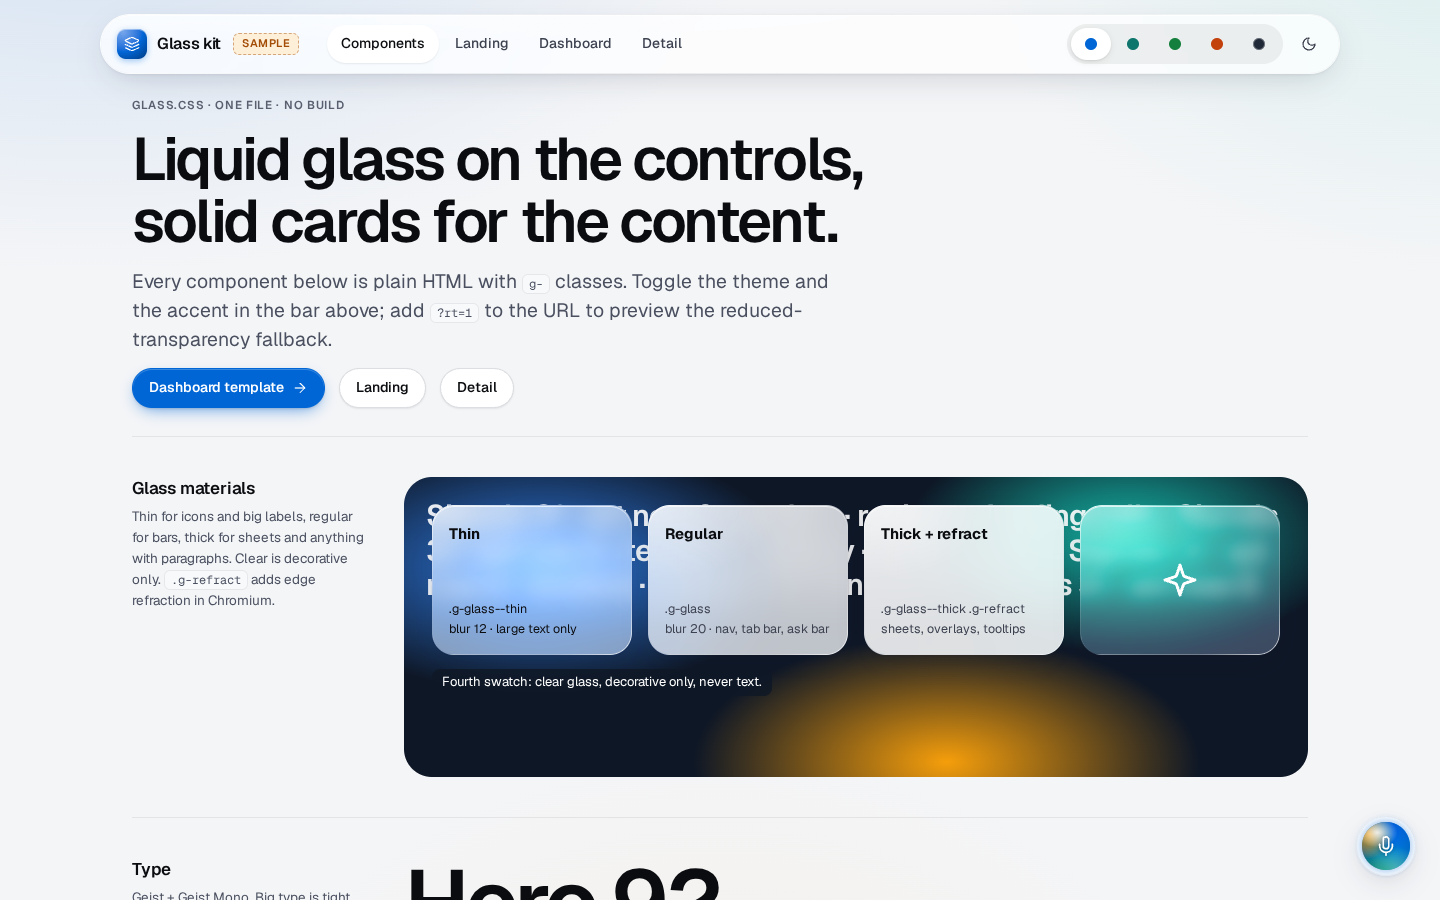
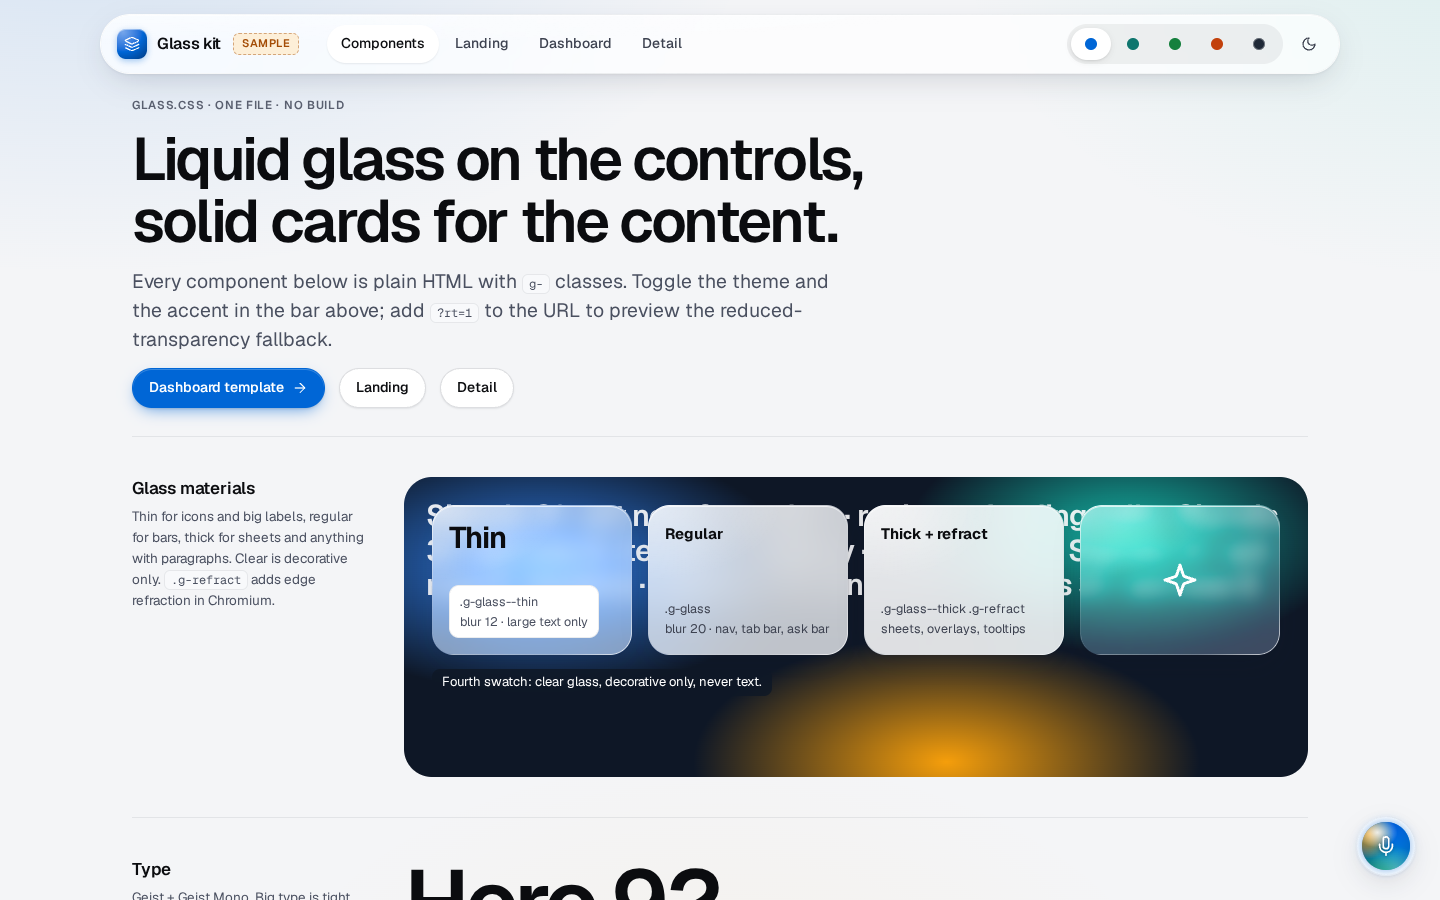
Fix six verified defects: accent contrast, orb timers, tooltip over bars, dialog shots, thin-glass caption
- glass.css: light-theme green and orange accent text tones darkened (#14753A, #B03A0B) so .g-chip--accent
  clears AA on its tint (was 4.33 and 4.42); fills and dark theme unchanged.
- tools/contrast_check.py: --accents all|list runs every page under each advertised ?accent= value
  (blue, teal, green, orange, graphite). README coverage note updated; all templates x desktop/--phone x
  every accent x light/dark exit 0.
- glass.js demoPilot: state timers are tracked and cleared on close (and on reopen), so a closed panel no
  longer leaves the orb in thinking/speaking.
- templates/dashboard.html: the week tooltip moves to the empty corner of the header row, clear of the
  bars of weeks 38 to 42 (checked by bounding boxes at 1440 down to 900; hidden at 390 as before).
- tools/shoot_templates.py: --animations auto|allow|disabled; auto uses "allow" when --click opens a
  dialog, because "disabled" never returns with a dialog open under software GL. Documented in the
  docstring and README.
- templates/gallery.html: the thin-glass swatch carries a 30px label and its small caption moves onto a
  solid surface, matching the kit's own "large text only on thin glass" rule.
- docs/shots: dashboard, dashboard_pilot and gallery screenshots regenerated to match.

Changed region(s): [[0.3125, 0.6222, 0.4375, 0.7156], [0.3125, 0.56, 0.3438, 0.6222]]

diff --git a/templates/dashboard.html b/templates/dashboard.html
@@ -15,7 +15,10 @@
   .stage-top { display: flex; justify-content: space-between; align-items: flex-start; gap: 12px; }
   .stage .g-chart { margin-top: auto; }
   .stage { min-height: 392px; }
-  .tip { position: absolute; right: 8%; top: 0; z-index: 3; }
+  /* The tooltip lives in the empty corner of the header row (right of the KPI, under the legend), not over the plot:
+     the bars of weeks 38 to 42 reach the top of the plot, so anything floating inside it hides data. */
+  .stage-top { position: relative; }
+  .tip { position: absolute; right: 0; bottom: 0; z-index: 3; }
   .tip b { font-size: 15px; letter-spacing: -0.02em; }
   @media (max-width: 860px) { .head { flex-direction: column; align-items: flex-start; } }
   @media (max-width: 640px) { .stage { min-height: 0; } .stage-in { padding: 18px 16px 16px; } .tip { display: none; } }
@@ -70,12 +73,12 @@
               <div class="g-legend g-hide-phone" style="padding-top:6px">
                 <span style="--_c: var(--g-chart-1)">Act now</span><span style="--_c: color-mix(in oklab, var(--g-chart-5) 55%, transparent)">All signals</span>
               </div>
+              <div class="g-float g-glass--thick tip g-refract" role="note">
+                <div class="g-eyebrow" style="color:var(--g-glass-text-2)">Week 42</div>
+                <div><b class="g-num">31</b> <span class="g-small" style="color:var(--g-glass-text-2)">signals</span> · <b class="g-num g-accent-text">6</b> <span class="g-small" style="color:var(--g-glass-text-2)">act now</span></div>
+              </div>
             </div>
             <div class="g-chart" style="--odd:hidden">
-<div class="g-float g-glass--thick tip g-refract" role="note">
-            <div class="g-eyebrow" style="color:var(--g-glass-text-2)">Week 42</div>
-            <div><b class="g-num">31</b> <span class="g-small" style="color:var(--g-glass-text-2)">signals</span> · <b class="g-num g-accent-text">6</b> <span class="g-small" style="color:var(--g-glass-text-2)">act now</span></div>
-          </div>
 <svg viewBox="0 0 640 330" role="img" aria-label="Weekly signals, weeks 31 to 42: total rising from 14 to 31, act-now from 2 to 6"><g class="grid"><line x1="8" x2="632" y1="326.0" y2="326.0"/><line x1="8" x2="632" y1="230.2" y2="230.2"/><line x1="8" x2="632" y1="134.5" y2="134.5"/><line x1="8" x2="632" y1="38.7" y2="38.7"/></g><g><rect class="muted" x="19.4" y="191.9" width="29.1" height="134.1" rx="7"/><rect class="s1 bar lo" x="19.4" y="306.8" width="29.1" height="19.2" rx="7"/><rect class="muted" x="71.4" y="153.6" width="29.1" height="172.4" rx="7"/><rect class="s1 bar lo" x="71.4" y="297.3" width="29.1" height="28.7" rx="7"/><rect class="muted" x="123.4" y="172.8" width="29.1" height="153.2" rx="7"/><rect class="s1 bar lo" x="123.4" y="306.8" width="29.1" height="19.2" rx="7"/><rect class="muted" x="175.4" y="124.9" width="29.1" height="201.1" rx="7"/><rect class="s1 bar lo" x="175.4" y="287.7" width="29.1" height="38.3" rx="7"/><rect class="muted" x="227.4" y="144.1" width="29.1" height="181.9" rx="7"/><rect class="s1 bar lo" x="227.4" y="297.3" width="29.1" height="28.7" rx="7"/><rect class="muted" x="279.4" y="96.2" width="29.1" height="229.8" rx="7"/><rect class="s1 bar lo" x="279.4" y="287.7" width="29.1" height="38.3" rx="7"/><rect class="muted" x="331.4" y="115.3" width="29.1" height="210.7" rx="7"/><rect class="s1 bar lo" x="331.4" y="297.3" width="29.1" height="28.7" rx="7"/><rect class="muted" x="383.4" y="67.5" width="29.1" height="258.5" rx="7"/><rect class="s1 bar lo" x="383.4" y="278.1" width="29.1" height="47.9" rx="7"/><rect class="muted" x="435.4" y="86.6" width="29.1" height="239.4" rx="7"/><rect class="s1 bar lo" x="435.4" y="287.7" width="29.1" height="38.3" rx="7"/><rect class="muted" x="487.4" y="48.3" width="29.1" height="277.7" rx="7"/><rect class="s1 bar lo" x="487.4" y="278.1" width="29.1" height="47.9" rx="7"/><rect class="muted" x="539.4" y="77.0" width="29.1" height="249.0" rx="7"/><rect class="s1 bar lo" x="539.4" y="287.7" width="29.1" height="38.3" rx="7"/><rect class="muted hi" x="591.4" y="29.2" width="29.1" height="296.8" rx="7"/><rect class="s1 bar hi" x="591.4" y="268.5" width="29.1" height="57.5" rx="7"/></g></svg><div class="g-chart__x" aria-hidden="true"><span>W31</span><span>W32</span><span>W33</span><span>W34</span><span>W35</span><span>W36</span><span>W37</span><span>W38</span><span>W39</span><span>W40</span><span>W41</span><span>W42</span></div></div>
           </div>
           </article>

diff --git a/templates/gallery.html b/templates/gallery.html
@@ -21,6 +21,9 @@
   .swatches { display: grid; grid-template-columns: repeat(4, minmax(0, 1fr)); gap: 16px; position: relative; }
   .swatch { border-radius: 22px; padding: 16px; min-height: 150px; display: flex; flex-direction: column; justify-content: space-between; gap: 8px; }
   .swatch b { font-size: 15px; } .swatch small { font-size: 12.5px; color: var(--g-glass-text-2); }
+  /* thin glass carries large text only (>= 24px): a big label, with the small caption on a solid surface instead of on the glass */
+  .swatch--thin b { font-size: 30px; line-height: 1.05; letter-spacing: -0.03em; font-weight: 650; }
+  .swatch--thin small { align-self: flex-start; padding: 6px 10px; border-radius: 10px; background: var(--g-surface); color: var(--g-base-text-2); border: 1px solid var(--g-line); }
   .phone { position: relative; width: 300px; height: 300px; border-radius: 36px; overflow: hidden; border: 1px solid var(--g-line); background: var(--g-bg); padding: 16px; }
   .phone .g-tabbar { position: absolute; display: flex; left: 10px; right: 76px; bottom: 12px; height: 58px; }
   .phone .g-orb-btn { position: absolute; right: 12px; bottom: 12px; --pilot-size: 58px; }
@@ -65,7 +68,7 @@
     <div class="backdrop">
       <div class="lines" aria-hidden="true">Signals 31 · act now 6 · tenders · registry · funding calls · Signals 31 · act now 6 · tenders · registry · funding calls · Signals 31 · act now 6 · tenders · registry · funding calls · Signals 31 · act now 6</div>
       <div class="swatches">
-        <div class="swatch g-glass g-glass--thin"><b>Thin</b><small>.g-glass--thin<br>blur 12 · large text only</small></div>
+        <div class="swatch swatch--thin g-glass g-glass--thin"><b>Thin</b><small>.g-glass--thin<br>blur 12 · large text only</small></div>
         <div class="swatch g-glass"><b>Regular</b><small>.g-glass<br>blur 20 · nav, tab bar, ask bar</small></div>
         <div class="swatch g-glass g-glass--thick g-refract"><b>Thick + refract</b><small>.g-glass--thick .g-refract<br>sheets, overlays, tooltips</small></div>
         <div class="swatch g-glass g-glass--clear" role="img" aria-label="Clear glass: decorative only, no text" style="align-items:center; justify-content:center"><svg class="g-i" style="width:40px;height:40px;color:#fff"><use href="../icons.svg#sparkles"/></svg></div>

diff --git a/glass.js b/glass.js
@@ -84,8 +84,9 @@
   /* demo-only state machine so galleries show every orb state without a microphone */
   function demoPilot(orb, panel) {
     if (!orb) return;
-    var raf = 0, t0 = 0;
+    var raf = 0, t0 = 0, timers = [];
     var status = panel && panel.querySelector("[data-pilot-status]");
+    function clearTimers() { timers.forEach(clearTimeout); timers = []; }   /* a closed panel must not keep advancing the orb */
     function state(s) {
       orb.setAttribute("data-state", s);
       if (panel) panel.setAttribute("data-state", s);
@@ -94,12 +95,13 @@
     function wobble(ts) { if (!t0) t0 = ts; var k = (ts - t0) / 1000; setPilotLevel(0.35 + 0.3 * Math.sin(k * 7) * Math.sin(k * 2.3) + 0.2 * Math.random()); raf = requestAnimationFrame(wobble); }
     orb.addEventListener("click", function () {
       var open = panel && !panel.hidden;
-      if (open) { panel.hidden = true; cancelAnimationFrame(raf); setPilotLevel(0); state("idle"); return; }
+      clearTimers(); cancelAnimationFrame(raf);
+      if (open) { panel.hidden = true; setPilotLevel(0); state("idle"); return; }
       if (panel) panel.hidden = false;
       state("listening"); t0 = 0; raf = requestAnimationFrame(wobble);
-      setTimeout(function () { state("thinking"); }, 2400);
-      setTimeout(function () { state("speaking"); }, 3600);
-      setTimeout(function () { cancelAnimationFrame(raf); setPilotLevel(0); state("idle"); }, 7600);
+      timers.push(setTimeout(function () { state("thinking"); }, 2400));
+      timers.push(setTimeout(function () { state("speaking"); }, 3600));
+      timers.push(setTimeout(function () { cancelAnimationFrame(raf); setPilotLevel(0); state("idle"); }, 7600));
     });
   }
 

diff --git a/glass.css b/glass.css
@@ -179,10 +179,13 @@
   }
 }
 
-/* 3 ─ accent presets: <html data-accent="teal">. One accent per product. ─── */
+/* 3 ─ accent presets: <html data-accent="teal">. One accent per product. ───
+   Light theme: --g-accent is the fill (buttons, white ink on it); --g-accent-text is the TEXT tone and is darker than the fill for
+   green and orange, because accent text sits on its own 11% tint (.g-chip--accent) and the fill tones only reach 4.33 / 4.42 there.
+   tools/contrast_check.py --accents all checks every preset on every template. */
 [data-accent="teal"]     { --g-accent: #0F766E; --g-accent-text: #0F766E; }
-[data-accent="green"]    { --g-accent: #15803D; --g-accent-text: #15803D; }
-[data-accent="orange"]   { --g-accent: #C2410C; --g-accent-text: #C2410C; }
+[data-accent="green"]    { --g-accent: #15803D; --g-accent-text: #14753A; }
+[data-accent="orange"]   { --g-accent: #C2410C; --g-accent-text: #B03A0B; }
 [data-accent="graphite"] { --g-accent: #1F2937; --g-accent-text: #1F2937; }
 [data-theme="dark"][data-accent="teal"]     { --g-accent: #0F766E; --g-accent-text: #2DD4BF; }
 [data-theme="dark"][data-accent="green"]    { --g-accent: #15803D; --g-accent-text: #4ADE80; }

diff --git a/tools/contrast_check.py b/tools/contrast_check.py
@@ -9,8 +9,11 @@ Not covered (check by eye): background images and gradients (only the colour lay
 pseudo-elements (::before labels, arrows), placeholders, ancestor opacity, and anything inside
 [aria-hidden=true] or [data-contrast-skip].
 
-Usage: python3 tools/contrast_check.py URL [URL ...] [--themes light,dark] [--phone]
-Exit 1 if any text fails. Works on any page, not only the kit's templates (theme via ?theme=).
+Usage: python3 tools/contrast_check.py URL [URL ...] [--themes light,dark] [--phone] [--accents all|blue,teal,...]
+Exit 1 if any text fails. Works on any page, not only the kit's templates (theme via ?theme=, accent via ?accent=).
+By default only the template's own accent is checked. --accents all repeats every run once per advertised accent
+preset (blue is the default look; teal, green, orange, graphite are the data-accent presets in glass.css), because
+an accent changes the text colour AND the chip tint behind it, so one preset passing says nothing about the others.
 """
 import argparse
 import sys
@@ -81,32 +84,43 @@ JS = r"""
 """
 
 
+ACCENTS = ["blue", "teal", "green", "orange", "graphite"]   # the ?accent= values glass.js / glass.css support
+
+
 def main():
     ap = argparse.ArgumentParser()
     ap.add_argument("urls", nargs="+")
     ap.add_argument("--themes", default="light,dark")
     ap.add_argument("--phone", action="store_true", help="390x844 instead of 1440x900")
     ap.add_argument("--all", action="store_true", help="print passing rows too")
+    ap.add_argument("--accents", default="", help="'all' or a comma list of ?accent= values to run each page under (default: the page's own accent)")
     a = ap.parse_args()
+    accents = ACCENTS if a.accents == "all" else [x for x in a.accents.split(",") if x]
+    for x in accents:
+        if x not in ACCENTS:
+            ap.error(f"unknown accent '{x}' (supported: {', '.join(ACCENTS)})")
     fails = 0
     with sync_playwright() as p:
         b = p.chromium.launch(args=["--no-sandbox"])
         vp = {"width": 390, "height": 844} if a.phone else {"width": 1440, "height": 900}
         for url in a.urls:
-            for theme in a.themes.split(","):
-                pg = b.new_page(viewport=vp)
-                sep = "&" if "?" in url else "?"
-                pg.goto(f"{url}{sep}theme={theme}", wait_until="networkidle")
-                pg.wait_for_timeout(1200)
-                rows = pg.evaluate(JS)
-                bad = [r for r in rows if not r["ok"]]
-                glass_rows = [r for r in rows if r["glass"]]
-                min_glass = min((r["ratio"] for r in glass_rows), default=None)
-                print(f"{url} [{theme}] {len(rows)} text nodes, {len(bad)} below AA; on glass: {len(glass_rows)} (min {min_glass})")
-                for r in (rows if a.all else bad):
-                    print(f"   {'ok ' if r['ok'] else 'FAIL'} {r['ratio']:>5} / {r['need']}  {'glass ' if r['glass'] else ''}{r['el']}  '{r['text']}'  fg {r['fg']} on {r['bg']}")
-                fails += len(bad)
-                pg.close()
+            for accent in (accents or [None]):
+                for theme in a.themes.split(","):
+                    pg = b.new_page(viewport=vp)
+                    sep = "&" if "?" in url else "?"
+                    q = f"theme={theme}" + (f"&accent={accent}" if accent else "")
+                    pg.goto(f"{url}{sep}{q}", wait_until="networkidle")
+                    pg.wait_for_timeout(1200)
+                    rows = pg.evaluate(JS)
+                    bad = [r for r in rows if not r["ok"]]
+                    glass_rows = [r for r in rows if r["glass"]]
+                    min_glass = min((r["ratio"] for r in glass_rows), default=None)
+                    tag = f"[{theme}{', ' + accent if accent else ''}]"
+                    print(f"{url} {tag} {len(rows)} text nodes, {len(bad)} below AA; on glass: {len(glass_rows)} (min {min_glass})")
+                    for r in (rows if a.all else bad):
+                        print(f"   {'ok ' if r['ok'] else 'FAIL'} {r['ratio']:>5} / {r['need']}  {'glass ' if r['glass'] else ''}{r['el']}  '{r['text']}'  fg {r['fg']} on {r['bg']}")
+                    fails += len(bad)
+                    pg.close()
         b.close()
     sys.exit(1 if fails else 0)
 

diff --git a/tools/shoot_templates.py b/tools/shoot_templates.py
@@ -3,6 +3,12 @@
 
 Usage: python3 tools/shoot_templates.py [--base http://127.0.0.1:8152] [--pages dashboard,landing] [--out docs/shots] [--full]
 Extra: --click "#orb" clicks a selector before the shot (for overlay states), --suffix _pilot names it.
+
+Animations: shots normally use Playwright animations="disabled" so nothing is caught mid-transition. Observed: once a
+<dialog> is open that setting never returns under the software GL this tool launches with (the screenshot times out), while
+animations="allow" does. So the default --animations auto switches to "allow" whenever the --click opened a dialog
+(data-g-open buttons: sheets and modals) and waits for the open transition itself. A dialog shot is slow under software
+GL (minutes on a busy machine), so those shots get a longer timeout. Force a mode with --animations allow|disabled.
 """
 import argparse
 import pathlib
@@ -17,6 +23,8 @@ ap.add_argument("--full", action="store_true")
 ap.add_argument("--click", default="")
 ap.add_argument("--suffix", default="")
 ap.add_argument("--wait", type=int, default=1200)
+ap.add_argument("--animations", choices=["auto", "allow", "disabled"], default="auto",
+                help="auto = disabled, except allow when --click opened a <dialog> (disabled never returns with a dialog open)")
 a = ap.parse_args()
 out = pathlib.Path(a.out); out.mkdir(parents=True, exist_ok=True)
 with sync_playwright() as p:
@@ -31,14 +39,19 @@ with sync_playwright() as p:
                 pg.on("console", lambda m: errs.append(m.text) if m.type == "error" else None)
                 pg.goto(f"{a.base}/templates/{page}.html?theme={theme}", wait_until="networkidle")
                 pg.wait_for_timeout(a.wait)
+                dialog_open = False
                 if a.click:
                     pg.click(a.click); pg.wait_for_timeout(900)
+                    dialog_open = pg.evaluate("!!document.querySelector('dialog[open]')")
+                    if dialog_open:
+                        pg.wait_for_timeout(700)   # animations are left on for the shot, so let the open transition finish first
+                anim = a.animations if a.animations != "auto" else ("allow" if dialog_open else "disabled")
                 f = out / f"{page}{a.suffix}_{tag}_{theme}.png"
                 try:
-                    pg.screenshot(path=str(f), full_page=a.full, timeout=90000, animations="disabled")
+                    pg.screenshot(path=str(f), full_page=a.full, timeout=240000 if dialog_open else 90000, animations=anim)
                 except Exception as e:  # noqa: BLE001  (software GL can be slow; keep going)
-                    print(f.name, "SCREENSHOT FAILED", str(e)[:80]); ctx.close(); continue
+                    print(f.name, "SCREENSHOT FAILED", str(e)[:80], flush=True); ctx.close(); continue
                 sw = pg.evaluate("document.documentElement.scrollWidth")
-                print(f.name, "hscroll!" if sw > vp["width"] else "", ("ERR " + "; ".join(errs)[:200]) if errs else "")
+                print(f.name, "hscroll!" if sw > vp["width"] else "", ("ERR " + "; ".join(errs)[:200]) if errs else "", flush=True)
                 ctx.close()
     b.close()

diff --git a/README.md b/README.md
@@ -25,7 +25,7 @@ Before and after: see `docs/BEFORE_AFTER.md`. The side-by-side comparison images
 | `tailwind/preset.js` | Tailwind v3 preset with the same tokens. Compile-tested on 3.4.17. |
 | `shadcn/globals-glass.css` | shadcn/ui variables mapped to the tokens, plus where glass goes in shadcn components. |
 | `library/` | `README.md` (per-site notes), `PATTERNS.md` (15 recurring moves), `LIQUID_GLASS.md` (Apple's rules, web recipe, browser support, sources), `shots/` (1440x900 and 390x844 captures + `facts.json`). |
-| `tools/` | `shoot_templates.py` (screens at 1440/390, light/dark), `contrast_check.py` (WCAG AA incl. text on glass, any URL), `capture_library.py` (re-capture references), `vendor_fonts.py` (self-host the fonts). |
+| `tools/` | `shoot_templates.py` (screens at 1440/390, light/dark; `--click` for overlay states: when the click opens a `<dialog>` it uses Playwright `animations="allow"` because `"disabled"` never returned with a dialog open, override with `--animations`), `contrast_check.py` (WCAG AA incl. text on glass, any URL; `--phone` for 390 px, `--accents all` to repeat every run under each accent preset), `capture_library.py` (re-capture references), `vendor_fonts.py` (self-host the fonts). |
 
 ## Use it in 10 minutes: plain HTML, Jinja, FastAPI
 ```bash
@@ -96,7 +96,10 @@ the toggles and refraction, or port the few lines you need. Tailwind v3 projects
   `.g-pilot-answer` with `.g-source` chips.
 
 ## Accessibility and honest limits
-- WCAG AA: `tools/contrast_check.py` reports 0 failures on all four templates in light and dark at 1440 and 390 px.
+- WCAG AA: `tools/contrast_check.py` reports 0 failures on all four templates in light and dark at 1440 and 390 px
+  under every advertised accent (`--accents all`: blue, teal, green, orange, graphite; 40 runs per viewport). Without
+  that flag only the page's own accent is checked, and an accent changes the chip tint behind its text as well as the
+  text, so re-run with `--accents all` after touching an accent token (green and orange needed a darker light-theme text tone).
   Text on glass is tested against both a black and a white backdrop (worst case), which is why glass fills are fairly
   opaque (light 0.52/0.74/0.86, dark 0.66/0.82/0.90) and why greys and accent text switch to darker on-glass tokens
   inside glass. The checker does not see background images or gradients, pseudo-element text (stacked-table labels,
